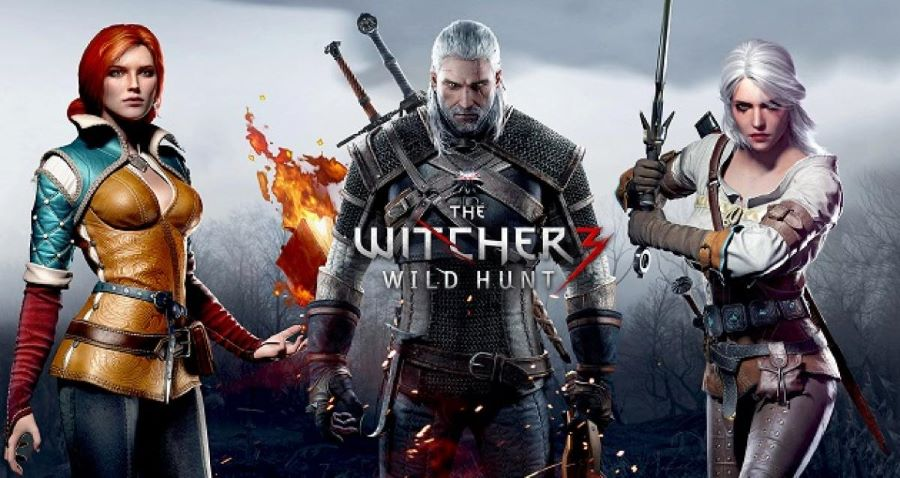
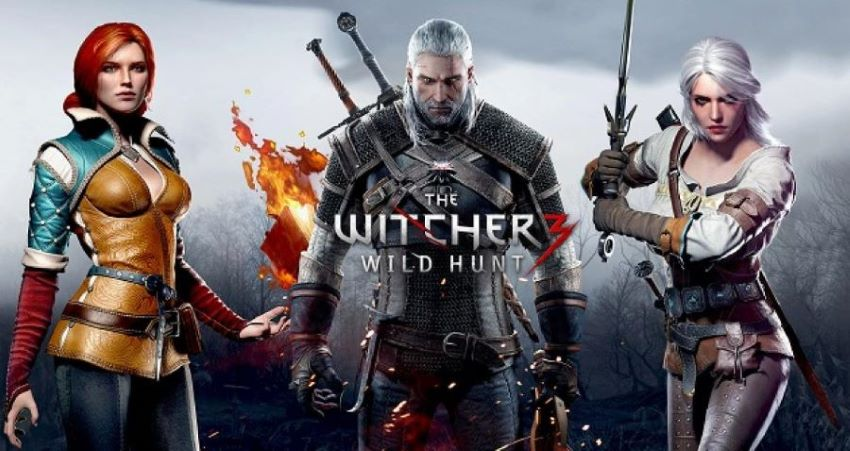
ajuste de imagenes pagina index

Changed region(s): [[0.8565, 0.5277, 0.8871, 0.5588]]

diff --git a/index.html b/index.html
@@ -10,7 +10,7 @@
 
 <body>
     <div class="caratula">
-        <img src="img/caratulaJuego.jpg" alt="imagen juego The Witcher">
+        <img src="img/caratulaJuego.jpg" alt="imagen juego The Witcher" id="caratula">
         <div class="players">
             <div class="player"><img src="img/Gerald.jpeg" alt="imagen de Gerald de Rivia" id="player1" onlick=""></div>
             <div class="player"><img src="img/yennefer.jpg" alt="imagen de Yennefer" id="player2" onclick=""></div>

diff --git a/css/estilos.css b/css/estilos.css
@@ -1,7 +1,19 @@
+body {
+    background-color: black;
+}
 .caratula {
     display: flex;
+}
+#caratula {
+    padding-bottom: 0.4em;
 }
 .players {
     display:flex;
     flex-direction: column;
 }
+.players {
+border: 1px solid black;
+}
+
+
+
